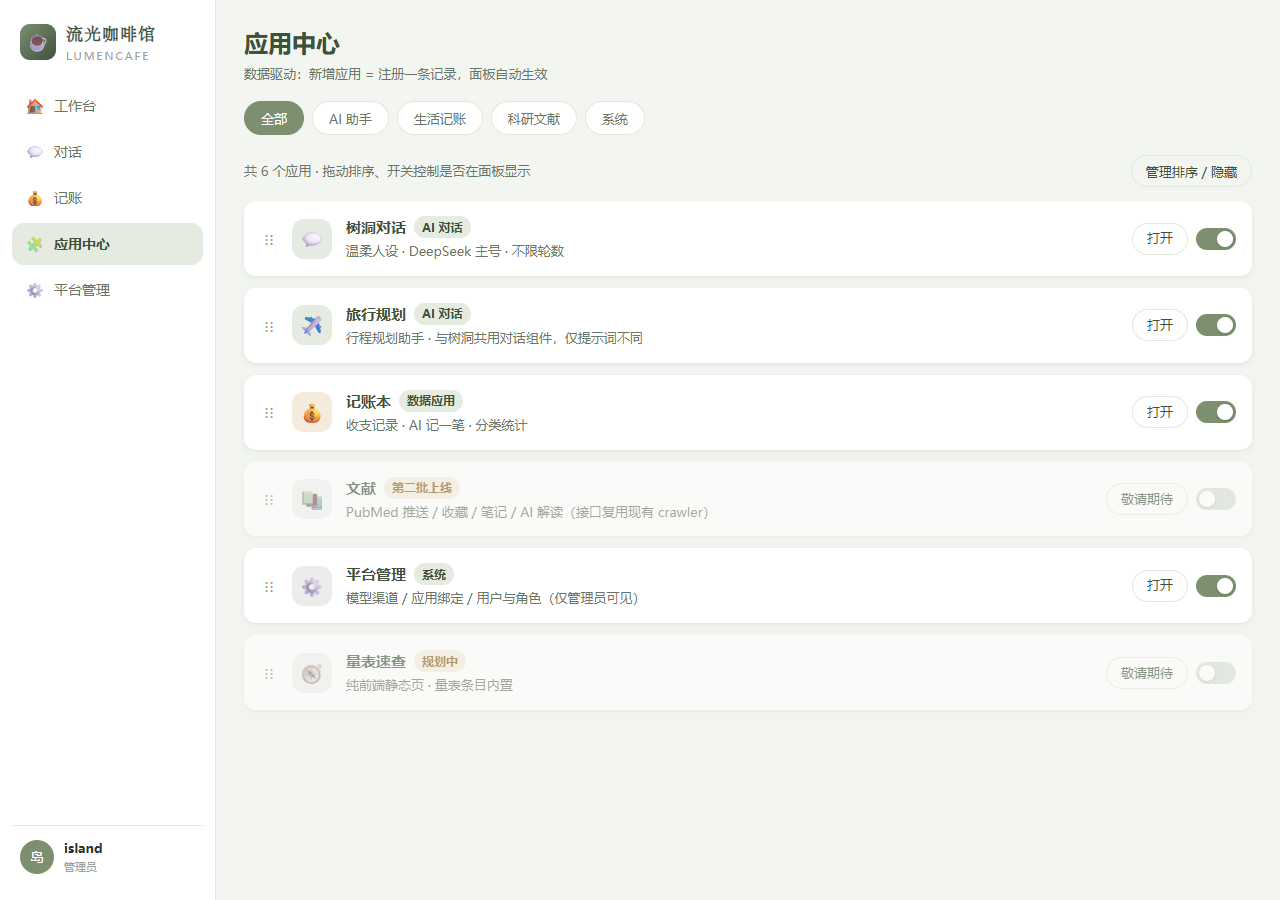
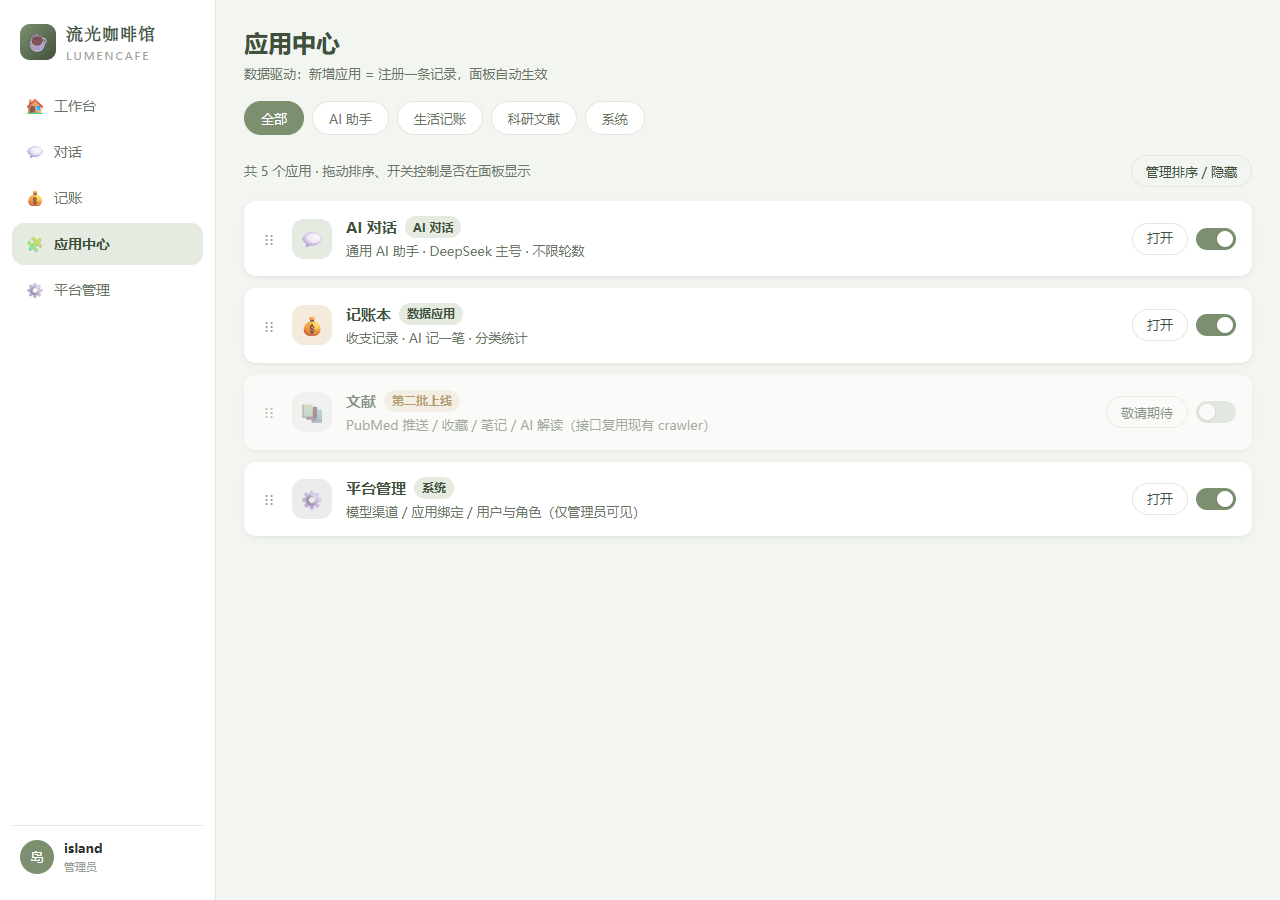
feat(prototype): 清除已砍应用残留，统一为 chat/money/papers 清单
- dashboard：大卡换为 AI 对话+记账本；删旅行规划小卡；最近对话改通用标题
- chat：app 名与会话标题去树洞/旅行化，开场白与流式假数据改通用内容
- admin：应用绑定 chat(AI 对话·乐于助人的 AI 助手提示词)/money-parse(AI 记一笔·自然语言解析结构化账目草稿)，均按主理人指定文案；Self-Test 只留两条
- apps：列表收敛 5 行（AI对话/记账/文献灰显/平台管理/全部应用），删旅行规划与量表速查
- login/money/样式/交互未动
- playwright 自查：双宽度无横向滚动、console 0 报错、全站零残留；shots/ 已重拍

diff --git a/prototype/chat.html b/prototype/chat.html
@@ -3,7 +3,7 @@
 <head>
 <meta charset="UTF-8">
 <meta name="viewport" content="width=device-width, initial-scale=1.0">
-<title>树洞对话 · 流光咖啡馆</title>
+<title>AI 对话 · 流光咖啡馆</title>
 <link rel="stylesheet" href="style.css">
 </head>
 <body>
@@ -11,16 +11,16 @@
   <!-- 会话列表（电脑左栏 / 手机抽屉） -->
   <aside class="conv-panel">
     <div class="conv-head">
-      <span class="t">树洞对话</span>
+      <span class="t">AI 对话</span>
       <button class="btn btn-ghost btn-sm" data-toast="原型演示：已新建会话">＋ 新对话</button>
     </div>
     <div class="conv-list">
-      <div class="conv-item active"><span class="ct">把手机放客厅充电的计划</span><span class="cd">今天 08:12</span></div>
-      <div class="conv-item"><span class="ct">厦门四天三晚行程安排</span><span class="cd">昨天 22:40</span></div>
-      <div class="conv-item"><span class="ct">工作上的委屈，想说说</span><span class="cd">昨天 12:03</span></div>
-      <div class="conv-item"><span class="ct">睡前十分钟放松练习</span><span class="cd">10月12日</span></div>
-      <div class="conv-item"><span class="ct">怎么和导师开口请两周假</span><span class="cd">10月11日</span></div>
-      <div class="conv-item"><span class="ct">本周读文献计划</span><span class="cd">10月10日</span></div>
+      <div class="conv-item active"><span class="ct">帮我润色一下这封邮件</span><span class="cd">今天 08:12</span></div>
+      <div class="conv-item"><span class="ct">解释一下量子纠缠</span><span class="cd">昨天 22:40</span></div>
+      <div class="conv-item"><span class="ct">Python 里 *args 和 **kwargs 的区别</span><span class="cd">昨天 12:03</span></div>
+      <div class="conv-item"><span class="ct">周末想做个戚风蛋糕，给个配方</span><span class="cd">10月12日</span></div>
+      <div class="conv-item"><span class="ct">读论文时怎么做笔记更高效</span><span class="cd">10月11日</span></div>
+      <div class="conv-item"><span class="ct">帮我写个周报模板</span><span class="cd">10月10日</span></div>
       <div class="conv-item"><span class="ct">心情不好的时候吃点什么</span><span class="cd">10月09日</span></div>
     </div>
   </aside>
@@ -31,7 +31,7 @@
     <div class="chat-head">
       <button class="menu-btn" data-open-conv>☰</button>
       <a href="dashboard.html" style="font-size:13px;color:var(--text-2);flex:none;" title="返回工作台">← 工作台</a>
-      <span class="title">树洞对话</span>
+      <span class="title">AI 对话</span>
       <span class="badge">DeepSeek 主号</span>
       <span class="grow"></span>
       <button class="menu-btn" data-toast="原型演示：打开会话设置">⋯</button>
@@ -41,9 +41,9 @@
       <div class="msgs-inner">
         <!-- 开场白 -->
         <div class="msg assistant">
-          <span class="avatar m-avatar" style="width:30px;height:30px;font-size:13px;">洞</span>
+          <span class="avatar m-avatar" style="width:30px;height:30px;font-size:13px;">AI</span>
           <div class="bubble">
-            嗨，欢迎来到树洞 🌿 这里说的话只有你和我知道。今天过得怎么样？
+            嗨，我是你的 AI 助手 🌿 问答、写作、翻译、头脑风暴都可以找我。今天想聊点什么？
           </div>
         </div>
 
@@ -54,7 +54,7 @@
 
         <!-- 助手：完整 Markdown 回复（含代码块样式演示） -->
         <div class="msg assistant">
-          <span class="avatar m-avatar" style="width:30px;height:30px;font-size:13px;">洞</span>
+          <span class="avatar m-avatar" style="width:30px;height:30px;font-size:13px;">AI</span>
           <div class="bubble">
             <p>这已经是很棒的开始了，先给自己一点肯定 👏 半夜醒来想去看手机，其实是大脑还没适应新节奏，很正常。</p>
             <h4>可以试试这三步：</h4>
@@ -77,13 +77,13 @@ mpv --volume=40 rain-sounds.mp3</code></pre>
         </div>
 
         <div class="msg user">
-          <div class="bubble">嗯，今晚再试一次。对了，周六不是要去厦门嘛，你帮我记着别聊太晚 😄</div>
+          <div class="bubble">嗯，今晚再试一次。对了，你上次说的番茄钟技巧，帮我整理成一句话版本 😄</div>
         </div>
 
         <!-- 助手：正在流式输出（假数据演示，打字机见 app.js） -->
         <div class="msg assistant">
-          <span class="avatar m-avatar" style="width:30px;height:30px;font-size:13px;">洞</span>
-          <div class="bubble cursor" data-stream="好，记下了 ✍ 周六出发前一天我会提醒你把充电宝和晕车药放进行李。那今晚我们十点四十就收摊，聊到困了为止就去睡，好不好？">
+          <span class="avatar m-avatar" style="width:30px;height:30px;font-size:13px;">AI</span>
+          <div class="bubble cursor" data-stream="好，记下了 ✍ 一句话版：25 分钟专注只做一件事，铃声一响休息 5 分钟，四轮之后大休 20 分钟。要不要我现在就帮你开一个倒计时？">
             <span class="stream-text"></span>
             <span class="thinking"><i></i><i></i><i></i></span>
           </div>
@@ -92,8 +92,8 @@ mpv --volume=40 rain-sounds.mp3</code></pre>
         <!-- 建议 chips -->
         <div class="suggest-row">
           <button class="tag" data-toast="原型演示">继续聊睡眠</button>
-          <button class="tag" data-toast="原型演示">看看厦门行程</button>
-          <button class="tag" data-toast="原型演示">做个十分钟放松</button>
+          <button class="tag" data-toast="原型演示">润色一下这段话</button>
+          <button class="tag" data-toast="原型演示">解释一个概念</button>
         </div>
       </div>
     </div>
@@ -101,7 +101,7 @@ mpv --volume=40 rain-sounds.mp3</code></pre>
     <!-- 输入区 -->
     <div class="composer">
       <div class="composer-inner">
-        <textarea rows="1" placeholder="和树洞说点什么…（Enter 发送，Shift+Enter 换行）"></textarea>
+        <textarea rows="1" placeholder="想聊点什么…（Enter 发送，Shift+Enter 换行）"></textarea>
         <div class="bar">
           <button class="menu-btn" style="display:inline-flex;" data-toast="原型演示：切换模型">✨</button>
           <span class="grow"></span>

diff --git a/prototype/admin.html b/prototype/admin.html
@@ -119,20 +119,14 @@
           <div class="page-desc" style="margin-bottom:8px;">每个对话应用 → 渠道 + 模型 + 系统提示词 + 参数覆盖</div>
 
           <div class="bind-row">
-            <div class="b1"><span class="app">💬 树洞对话</span><span class="badge">DeepSeek 主号</span><span class="tag">deepseek-chat</span></div>
-            <div class="b2">提示词：你是「树洞」，温柔耐心、少说教的倾听者…（已配置）· 每日限 0 轮 = 不限</div>
+            <div class="b1"><span class="app">💬 AI 对话（chat）</span><span class="badge">DeepSeek 主号</span><span class="tag">deepseek-chat</span></div>
+            <div class="b2">提示词：你是乐于助人的 AI 助手…（已配置）· 每日限 0 轮 = 不限</div>
             <div class="b2"><button class="btn btn-ghost btn-sm" data-toast="原型演示：编辑绑定">编辑绑定</button></div>
           </div>
 
           <div class="bind-row">
-            <div class="b1"><span class="app">✈ 旅行规划</span><span class="badge">DeepSeek 主号</span><span class="tag">deepseek-chat</span></div>
-            <div class="b2">提示词：你是行程规划助手，按预算与天数给可执行的建议…（已配置）</div>
-            <div class="b2"><button class="btn btn-ghost btn-sm" data-toast="原型演示：编辑绑定">编辑绑定</button></div>
-          </div>
-
-          <div class="bind-row">
-            <div class="b1"><span class="app">🧪 Mock 演示</span><span class="badge badge-muted">Mock 本地</span><span class="tag">mock</span></div>
-            <div class="b2">提示词：（空）· 离线演示用，生产可删除</div>
+            <div class="b1"><span class="app">✨ AI 记一笔（money-parse）</span><span class="badge badge-muted">Mock 本地</span><span class="tag">mock</span></div>
+            <div class="b2">提示词：将用户的自然语言解析为结构化账目草稿…（已配置）</div>
             <div class="b2"><button class="btn btn-ghost btn-sm" data-toast="原型演示：编辑绑定">编辑绑定</button></div>
           </div>
         </div>
@@ -141,9 +135,8 @@
           <h3 style="font-size:15px;color:var(--deep);margin-bottom:8px;">诊断 · Self-Test</h3>
           <div class="page-desc" style="margin-bottom:10px;">不发起网络请求，解析各应用当前实际命中的渠道/模型</div>
           <div class="card" style="background:var(--bg);box-shadow:none;padding:12px;font-family:Consolas,monospace;font-size:12px;line-height:1.9;">
-            chat &nbsp;&nbsp;→ DeepSeek 主号 / deepseek-chat ✓<br>
-            travel → DeepSeek 主号 / deepseek-chat ✓<br>
-            kb &nbsp;&nbsp;&nbsp;→ ERROR: 未配置绑定
+            chat &nbsp;&nbsp;&nbsp;&nbsp;&nbsp;&nbsp;→ DeepSeek 主号 / deepseek-chat ✓<br>
+            money-parse → Mock 本地 / mock ✓
           </div>
           <button class="btn btn-ghost btn-sm" style="margin-top:10px;" data-toast="原型演示：重新解析全部应用">重新解析</button>
         </div>

diff --git a/prototype/apps.html b/prototype/apps.html
@@ -56,7 +56,7 @@
     </div>
 
     <div class="manage-bar">
-      <span style="font-size:13px;color:var(--text-2);">共 6 个应用 · 拖动排序、开关控制是否在面板显示</span>
+      <span style="font-size:13px;color:var(--text-2);">共 5 个应用 · 拖动排序、开关控制是否在面板显示</span>
       <button class="btn btn-ghost btn-sm" data-toast="原型演示：已进入管理模式">管理排序 / 隐藏</button>
     </div>
 
@@ -64,21 +64,8 @@
       <span class="sort-handle">⋮⋮</span>
       <span class="ico" style="background:#E6EBE1;">💬</span>
       <div class="grow">
-        <div class="name">树洞对话 <span class="badge">AI 对话</span></div>
-        <div class="desc">温柔人设 · DeepSeek 主号 · 不限轮数</div>
-      </div>
-      <div class="ops">
-        <a class="btn btn-ghost btn-sm" href="chat.html">打开</a>
-        <label class="switch"><input type="checkbox" checked><i></i></label>
-      </div>
-    </div>
-
-    <div class="app-row">
-      <span class="sort-handle">⋮⋮</span>
-      <span class="ico" style="background:#E6EBE1;">✈</span>
-      <div class="grow">
-        <div class="name">旅行规划 <span class="badge">AI 对话</span></div>
-        <div class="desc">行程规划助手 · 与树洞共用对话组件，仅提示词不同</div>
+        <div class="name">AI 对话 <span class="badge">AI 对话</span></div>
+        <div class="desc">通用 AI 助手 · DeepSeek 主号 · 不限轮数</div>
       </div>
       <div class="ops">
         <a class="btn btn-ghost btn-sm" href="chat.html">打开</a>
@@ -125,18 +112,6 @@
       </div>
     </div>
 
-    <div class="app-row" style="opacity:.6;">
-      <span class="sort-handle">⋮⋮</span>
-      <span class="ico" style="background:#EFF1EC;filter:grayscale(.7);">🧭</span>
-      <div class="grow">
-        <div class="name">量表速查 <span class="badge badge-warn">规划中</span></div>
-        <div class="desc">纯前端静态页 · 量表条目内置</div>
-      </div>
-      <div class="ops">
-        <button class="btn btn-ghost btn-sm" data-toast="规划中，敬请期待">敬请期待</button>
-        <label class="switch"><input type="checkbox"><i></i></label>
-      </div>
-    </div>
   </main>
 
   <nav class="tabbar">

diff --git a/prototype/dashboard.html b/prototype/dashboard.html
@@ -62,8 +62,8 @@
       </div>
       <div class="card widget w-8">
         <h3>最近对话 <a href="chat.html">全部 →</a></h3>
-        <div class="conv-line"><span class="who">树洞</span><p>昨晚睡得好一点了，今天想试着把手机放在客厅充电</p><span class="t">08:12</span></div>
-        <div class="conv-line"><span class="who">旅行</span><p>那就按 11 月初、四天三晚、人均 2500 来排一版厦门的</p><span class="t">昨天</span></div>
+        <div class="conv-line"><span class="who">AI 对话</span><p>帮我润色一下这封邮件，语气礼貌但不要太客气</p><span class="t">08:12</span></div>
+        <div class="conv-line"><span class="who">AI 对话</span><p>解释一下量子纠缠，用最通俗的话，别用公式</p><span class="t">昨天</span></div>
       </div>
     </div>
 
@@ -74,8 +74,8 @@
         <div class="top">
           <span class="ico ico-lg" style="background:#E6EBE1;">💬</span>
           <div>
-            <div class="name">树洞对话</div>
-            <div class="desc">温柔地接住你的每一句话，多轮上下文持续陪伴</div>
+            <div class="name">AI 对话</div>
+            <div class="desc">通用 AI 助手，问答、写作、润色、 brainstorm 都能聊</div>
           </div>
         </div>
         <div class="foot"><span class="tag">AI 对话</span><span class="tag">DeepSeek</span><span class="tag">继续聊 →</span></div>
@@ -96,15 +96,6 @@
           <div>
             <div class="name">文献</div>
             <div class="desc">第二批上线</div>
-          </div>
-        </div>
-      </a>
-      <a class="app-card small" href="chat.html">
-        <div class="top">
-          <span class="ico" style="background:#E6EBE1;">✈</span>
-          <div>
-            <div class="name">旅行规划</div>
-            <div class="desc">对话式排行程</div>
           </div>
         </div>
       </a>
